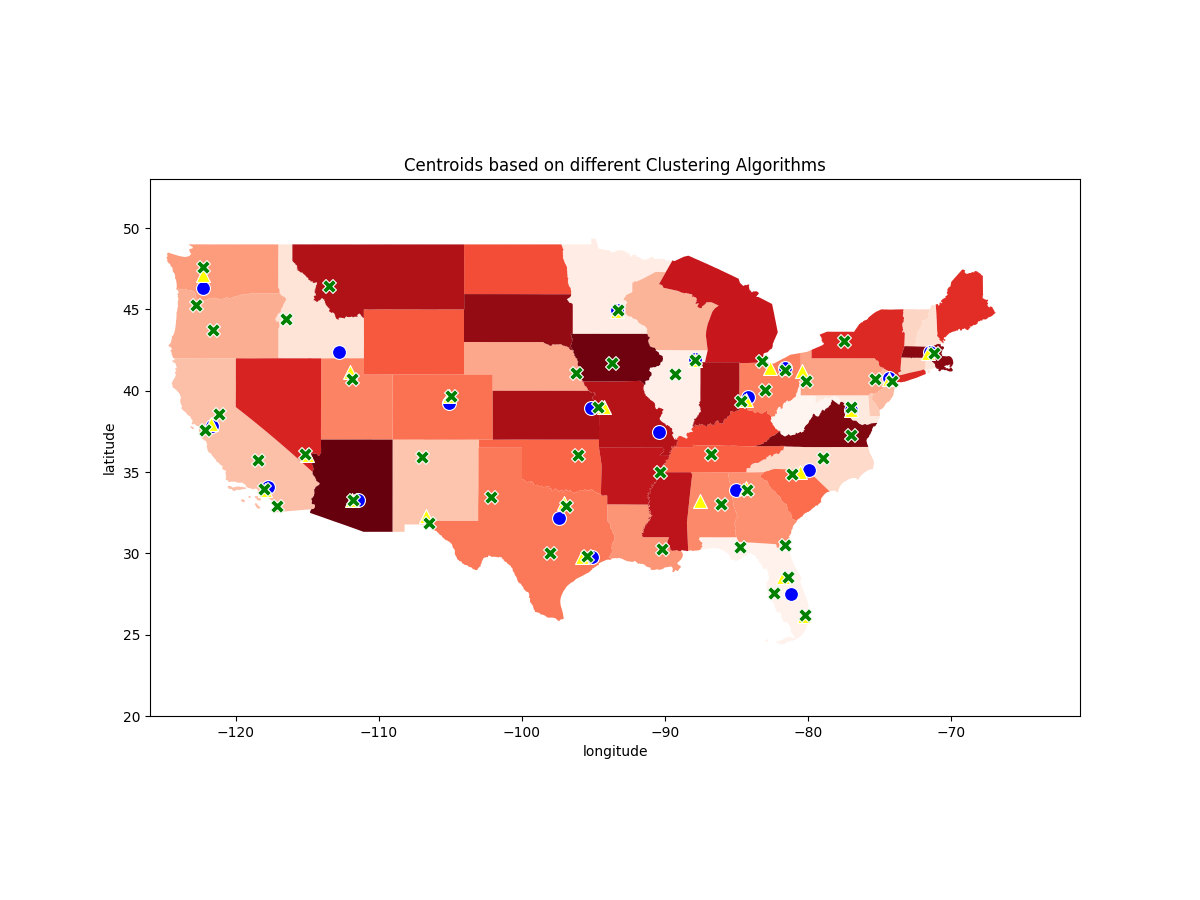
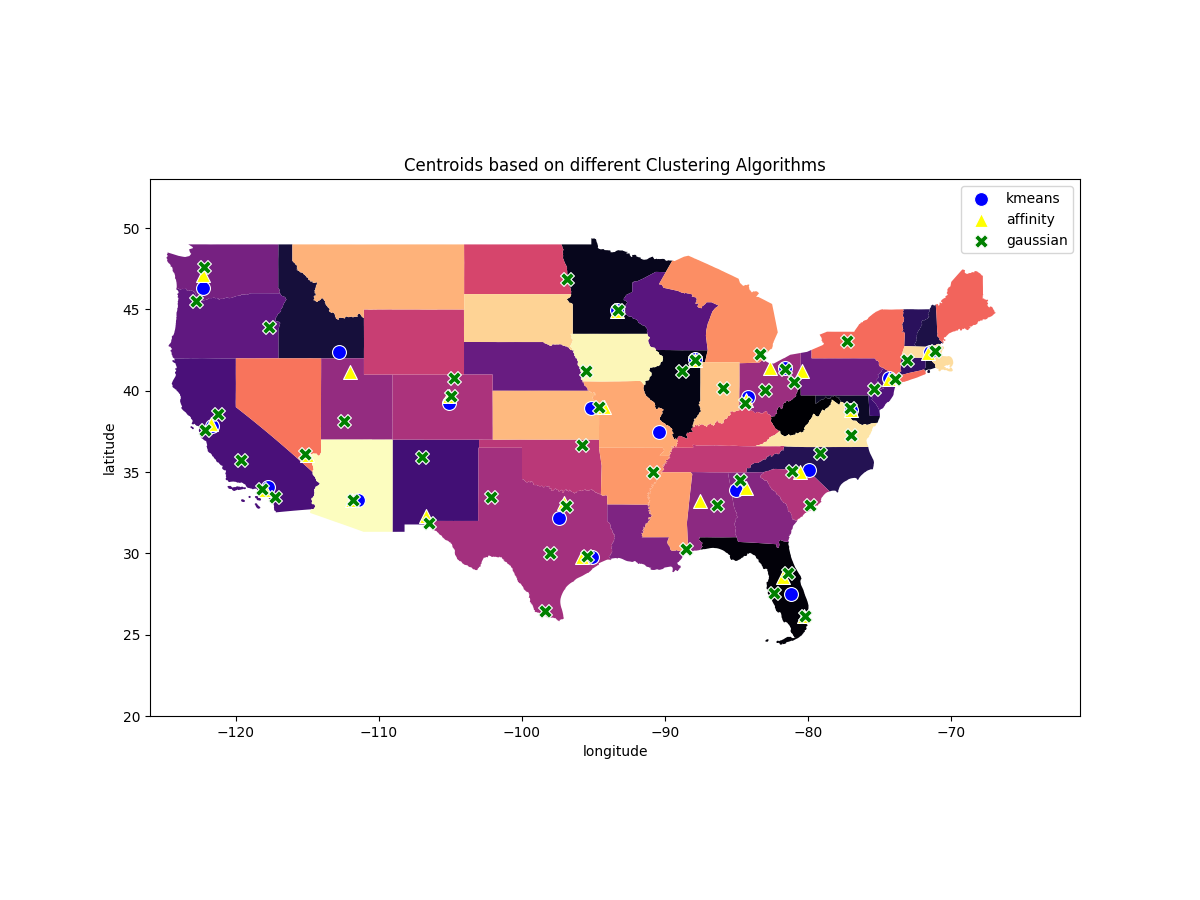
final map

Changed region(s): [[0.1233, 0.2178, 0.8942, 0.7156]]

diff --git a/README.md b/README.md
@@ -146,3 +146,9 @@ _Hardcore_:
 ![img](app/plots/getfat.png)
 ![img](app/plots/hardcore.png)
 Not really a good location  but if [needed](https://www.decathlon.be/fr/browse/c0-tous-les-sports/c1-camping/c3-tentes-pop-up/_/N-mf86su) so you can leave your Chipotle dream life.
+
+
+-----------------------------------------
+## A final comparative map :
+
+![img](app/plots/combined.png)
